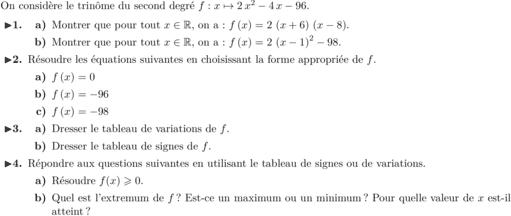
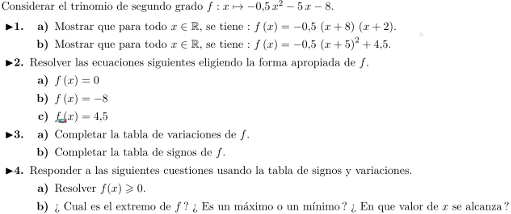
Internacionalization support for img and templates

diff --git a/pyromaths/data/exercices/templates/InterpolationMatrices-answer_es.tex b/pyromaths/data/exercices/templates/InterpolationMatrices-answer_es.tex
@@ -5,18 +5,18 @@
     \begin{enumerate}
       \item
         \begin{itemize}
-          \item Puisque $A\,( (( X[0]|facteur ))~;~(( Y[0]|facteur )) )$ est sur la courbe de $f$, alors $f\,( (( X[0]|facteur )) )=(( Y[0]|facteur ))$, soit
+          \item Puesto que $A\,( (( X[0]|facteur ))~;~(( Y[0]|facteur )) )$ está en la curva de $f$, entonces $f\,( (( X[0]|facteur )) )=(( Y[0]|facteur ))$, soit
             $a \times (( X[0]|facteur ))^2+b\times (( X[0]|facteur ))+c=(( Y[0]|facteur ))$,
-            c'est-à-dire $(( (X[0]**2)|facteur(variable="a") )) + (( X[0]|facteur(variable="b") )) + c = (( Y[0]|facteur ))$.
-          \item De même, puisque $B\,( (( X[1]|facteur ))~;~(( Y[1]|facteur )) )$ est sur la courbe de $f$, alors $f\,( (( X[1]|facteur )) )=(( Y[1]|facteur ))$, soit
+            es decir $(( (X[0]**2)|facteur(variable="a") )) + (( X[0]|facteur(variable="b") )) + c = (( Y[0]|facteur ))$.
+          \item Igualmente, puesto que $B\,( (( X[1]|facteur ))~;~(( Y[1]|facteur )) )$ está en la curva de $f$, entonces $f\,( (( X[1]|facteur )) )=(( Y[1]|facteur ))$, si
             $a \times (( X[1]|facteur ))^2+b\times (( X[1]|facteur ))+c=(( Y[1]|facteur ))$,
-            c'est-à-dire $(( (X[1]**2)|facteur(variable="a") )) + (( X[1]|facteur(variable="b") )) + c = (( Y[1]|facteur ))$.
-          \item Enfin, puisque $C\,( (( X[2]|facteur ))~;~(( Y[2]|facteur )) )$ est sur la courbe de $f$, alors $f\,( (( X[2]|facteur )) )=(( Y[2]|facteur ))$, soit
+            es decir $(( (X[1]**2)|facteur(variable="a") )) + (( X[1]|facteur(variable="b") )) + c = (( Y[1]|facteur ))$.
+          \item Finalmente, puesto que $C\,( (( X[2]|facteur ))~;~(( Y[2]|facteur )) )$ está en la curva de $f$, entonces $f\,( (( X[2]|facteur )) )=(( Y[2]|facteur ))$, si
             $a \times (( X[2]|facteur ))^2+b\times (( X[2]|facteur ))+c=(( Y[2]|facteur ))$,
-            c'est-à-dire $(( (X[2]**2)|facteur(variable="a") )) + (( X[2]|facteur(variable="b") )) + c = (( Y[2]|facteur ))$.
+            es decir $(( (X[2]**2)|facteur(variable="a") )) + (( X[2]|facteur(variable="b") )) + c = (( Y[2]|facteur ))$.
         \end{itemize}
 
-        On en déduit le système suivant :
+        De donde se decuce el siguiente sistema :
         \[ \left\{\begin{array}{rcl}
             (( (X[0]**2)|facteur(variable="a") )) + (( X[0]|facteur(variable="b") )) + c &=& (( Y[0]|facteur )) \\
             (( (X[1]**2)|facteur(variable="a") )) + (( X[1]|facteur(variable="b") )) + c &=& (( Y[1]|facteur )) \\
@@ -41,24 +41,24 @@
 &\iff M\, X=R
 \end{align*}
 
-        Avec : $M= (( M|matrice ))$, $X= (( [["a"], ["b"], ["c"]]|matrice ))$ et $R= (( Y|zip|matrice ))$.
+        Con : $M= (( M|matrice ))$, $X= (( [["a"], ["b"], ["c"]]|matrice ))$ et $R= (( Y|zip|matrice ))$.
     \end{enumerate}
   \item
-    Comme $M$ est inversible, et que $M\,X = R$, alors $X = M^{-1}\times R$.
+    Puest que $M$ es inversible, y que $M\,X = R$, entonces $X = M^{-1}\times R$.
 
-    À la calculatrice, on obtient
+    En la calculadora,obtenemos
     $M^{-1}\times R=(( M|matrice ))^{-1}\times ((Y|zip|matrice)) = (( A|zip|matrice ))$.
 
-    Ainsi, $a=(( A[0]|facteur ))$, $b=(( A[1]|facteur ))$, et $c=(( A[2]|facteur ))$.
+    Así, $a=(( A[0]|facteur ))$, $b=(( A[1]|facteur ))$, y $c=(( A[2]|facteur ))$.
   \item
-En utilisant les valeurs de $a$, $b$, et $c$ calculées précédemment, nous connaissons l'expression de la fonction : $f\,(x) = (( A[0]|facteur("X") ))  (( A[1]|facteur("sox*"))) (( A[2]|facteur("so") ))$.
+Usando los valores de $a$, $b$, y $c$ calculados anteriormente, conocemos la expresión de la función : $f\,(x) = (( A[0]|facteur("X") ))  (( A[1]|facteur("sox*"))) (( A[2]|facteur("so") ))$.
 
-Nous pouvons maintenant calculer l'image de $(( x|facteur ))$ par cette fonction :
+Ahora podemos calcular la imagen de $(( x|facteur ))$ con esta función :
 \begin{align*}
 f\,( (( x|facteur )) )
 &= (( A[0]|facteur )) \times (( x|facteur ))^2 (( A[1]|facteur("so") )) \times (( x|facteur)) (( A[2]|facteur("so") ))\\
 &= (( (A[0]*x**2+A[1]*x+A[2])|facteur ))
 \end{align*}
-Donc $f\,( (( x|facteur )) ) = (( (A[0]*x**2+A[1]*x+A[2])|facteur ))$.
+Entonces $f\,( (( x|facteur )) ) = (( (A[0]*x**2+A[1]*x+A[2])|facteur ))$.
 \end{enumerate}
 

diff --git a/pyromaths/ex/__init__.py b/pyromaths/ex/__init__.py
@@ -42,7 +42,17 @@ class TexExercise:
 
     @classmethod
     def thumb(cls):
-        return os.path.join(directories.EXODIR, 'img', "%s.png" % cls.name())
+        langue = locale.getdefaultlocale()[0][0:2]
+        img_dir=os.path.join(directories.EXODIR,'img')
+        if langue == "fr" or langue == "":
+            img_dir=os.path.join(img_dir,"default")
+        else:
+            img_dir=os.path.join(img_dir,langue)
+            if not os.path.isfile(os.path.join("%s"%img_dir,"%s.png"%cls.name())):
+                img_dir=os.path.join(directories.EXODIR,'img','default')
+        exo_img=os.path.join(img_dir,"%s.png"%cls.name())
+#        return os.path.join(directories.EXODIR, 'img', "%s.png" % cls.name())
+        return exo_img
 
     def tex_statement(self):
         """Return problem statement in TeX format."""

diff --git a/pyromaths/data/exercices/templates/InterpolationMatrices-statement_es.tex b/pyromaths/data/exercices/templates/InterpolationMatrices-statement_es.tex
@@ -1,11 +1,11 @@
 \exercice
 Dentro de una base ortonormal, determinar la ecuación de una función cuya curva pasa por los puntos.
 $A\,( (( X[0]|facteur )) ~;~ (( Y[0]|facteur )) )$,
-$B\,( (( X[1]|facteur )) ~;~ (( Y[1]|facteur )) )$ et
+$B\,( (( X[1]|facteur )) ~;~ (( Y[1]|facteur )) )$ y
 $C\,( (( X[2]|facteur )) ~;~ (( Y[2]|facteur )) )$.
 
 Buscar un trinomio de segundo grado, es decir una función $f$ definida en $\interval[open]{-\infty}{+\infty}$ por
- \mbox{$f\,(x) = a\,x^2 + b\,x + c$} o $a$, $b$ y $c$ son tres números reales, que estamos tratando de determinar.
+ \mbox{$f\,(x) = a\,x^2 + b\,x + c$} donde $a$, $b$ y $c$ son tres números reales, que estamos tratando de determinar.
 
   \begin{enumerate}
     \item 

diff --git a/pyromaths/data/exercices/templates/EtatStableSysteme2-statement_es.tex b/pyromaths/data/exercices/templates/EtatStableSysteme2-statement_es.tex
@@ -8,4 +8,4 @@ M=\begin{pmatrix}
 \end{pmatrix}
 \]
 
-Denomina $P=\begin{pmatrix}x&y\end{pmatrix}$ el estado estable de la grafica. Determinar $x$ y $y$.
+El estado estable viene dado por $P=\begin{pmatrix}x&y\end{pmatrix}$. Determinar $x$ e $y$.
